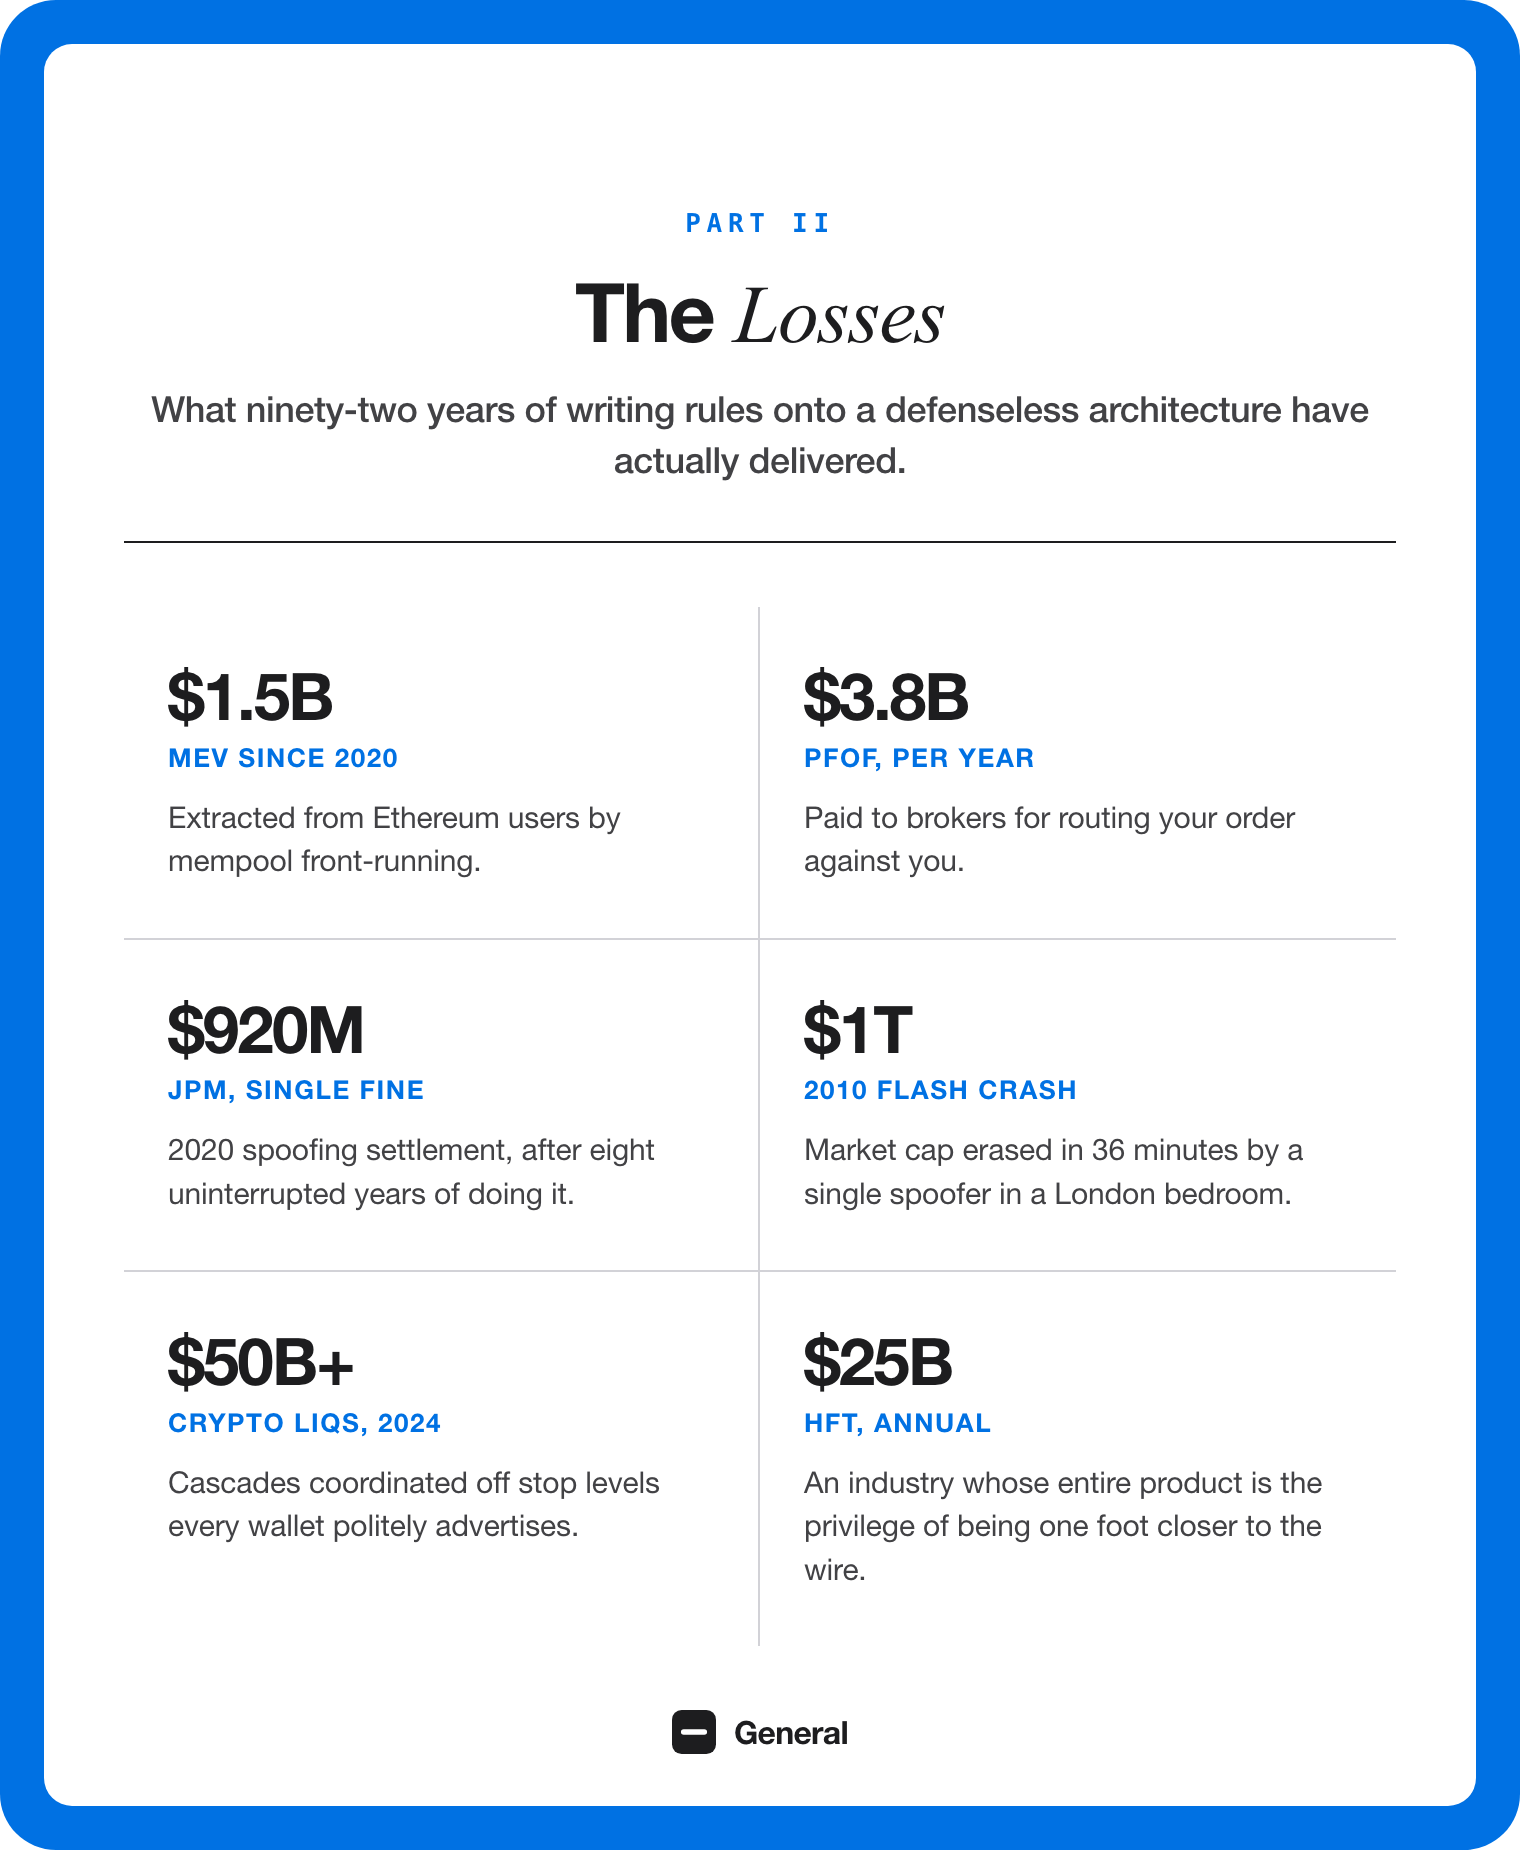
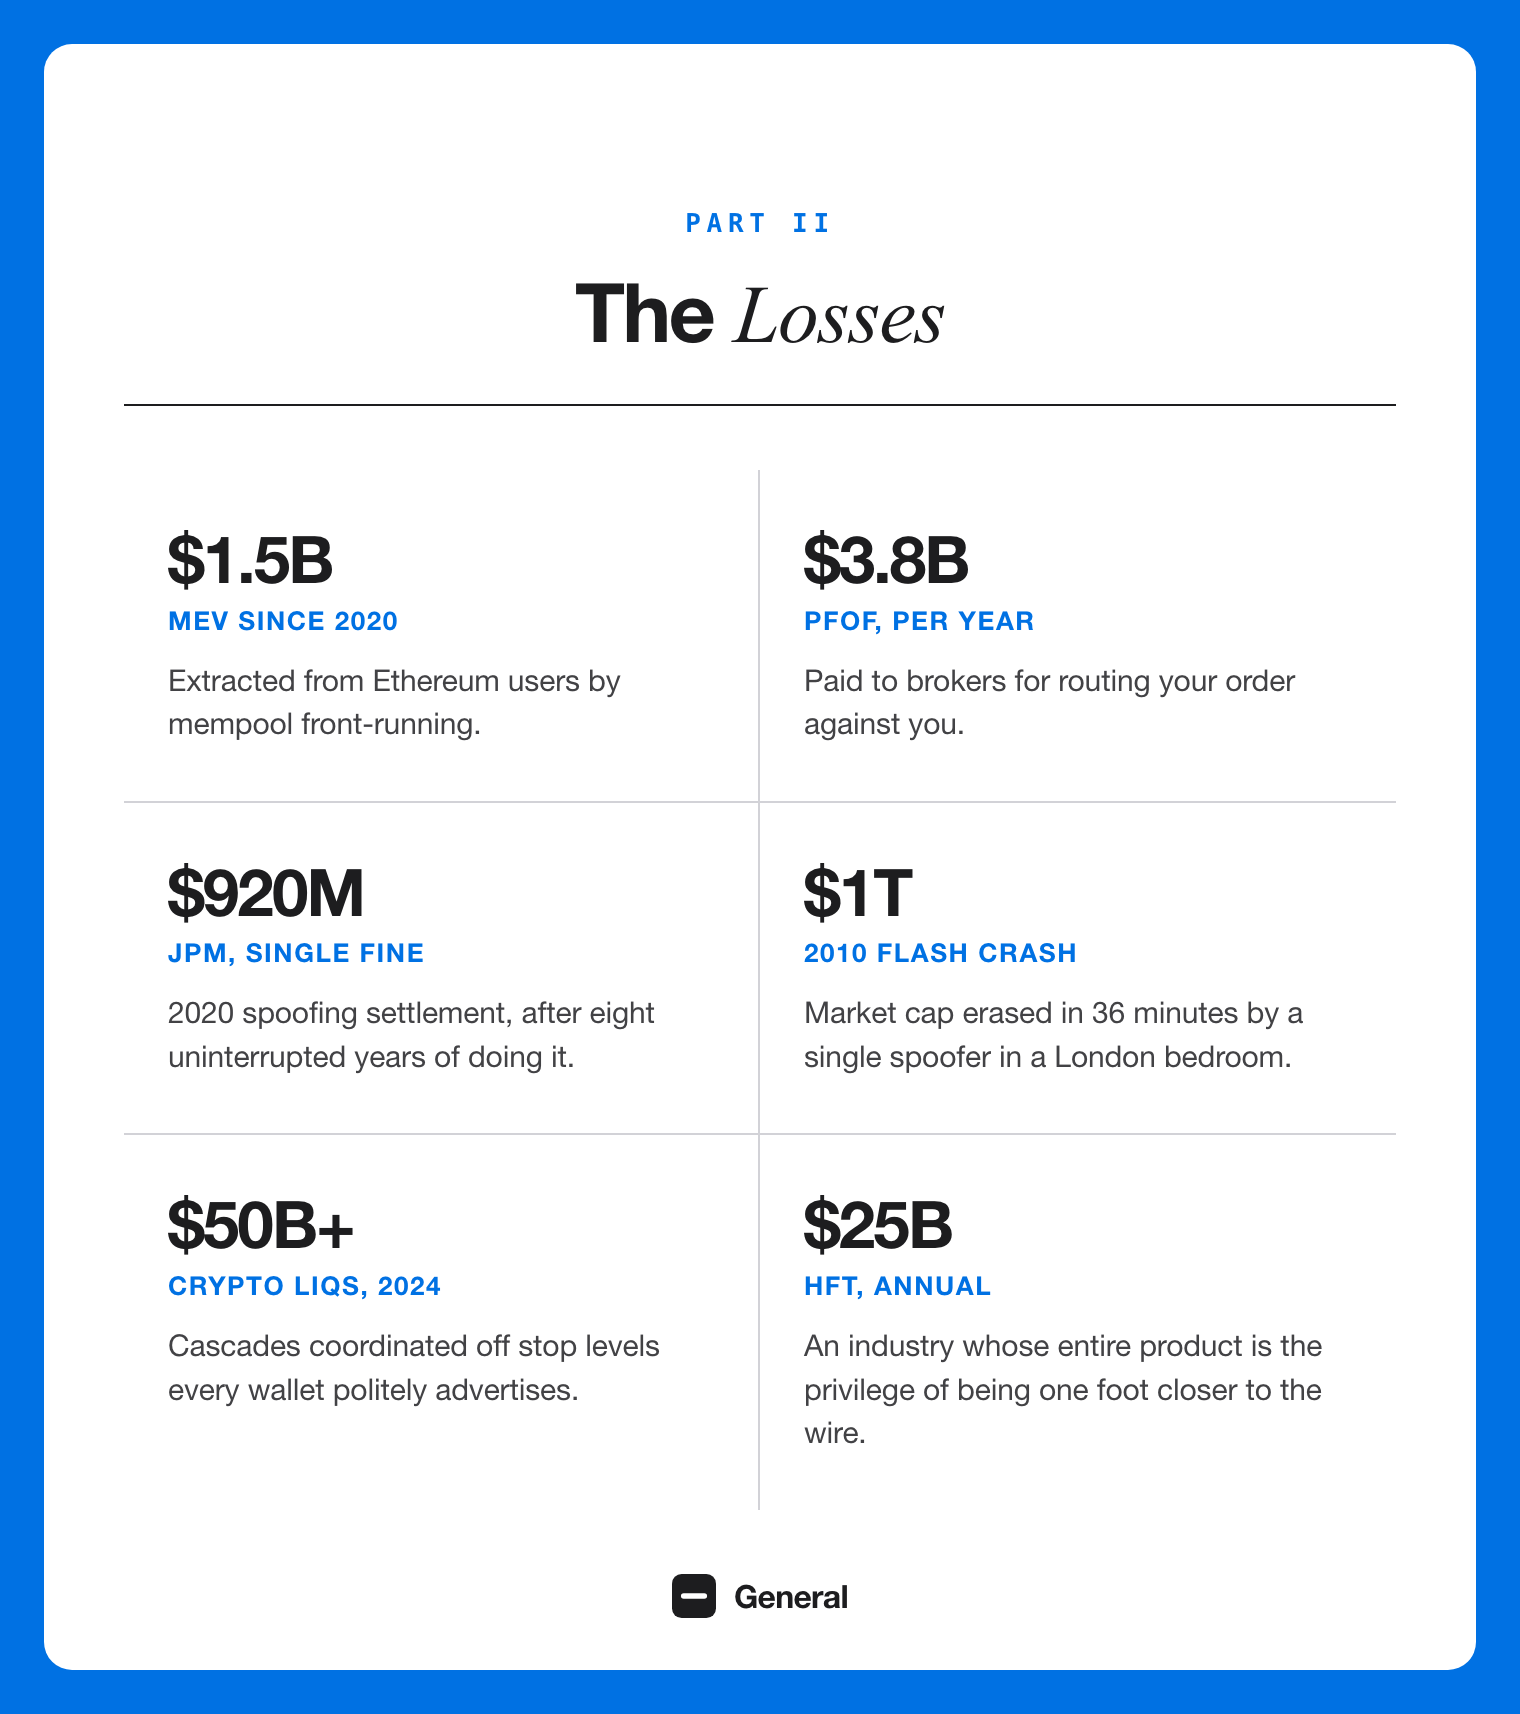
fix(case-study/anticheat): flat blue corners, decks removed, image-led .md
- .share-card border-radius forced to 0 in render override so the
  blue frame fills the bounding box. The white wedges in the four
  corners are gone — every per-card PNG is now a clean blue
  rectangle around the white inner card.
- .article-dek and .prim-title-sub hidden in the rendered cards.
  The descriptive sub-line that used to sit beneath each title
  ('Cheat-resistance against financial stakes...', 'Don't transmit
  what shouldn't be seen', etc.) is removed for visual quiet — the
  card title plus the inner content carry the meaning.
- paste-article.md rewritten as image-led: H2 section headings
  between [IMAGE NN — filename] placeholders, with one short
  Cioran transition sentence after each image when needed.
  No bullet lists, no vocab table, no kill-list table — every
  data block lives in the corresponding card image, not in the
  prose. The .md now reads like a table of contents the user
  fleshes out by dropping the cards in.

diff --git a/frontend/public/case-studies/anticheat/paste-article.md b/frontend/public/case-studies/anticheat/paste-article.md
@@ -1,175 +1,104 @@
-# The Anti-Cheat
+# The first Anti-Cheat for financial markets
 
-Technical Review № 001 — General Market
-
----
-
-Markets are the largest competitive multiplayer game on earth, and the most curious thing about them is that no one ever bothered to install an anti-cheat. Three decades of fixes were patiently catalogued for video games while none were borrowed for trading, on the polite assumption that real money is too dignified to need the same protection as a deathmatch.
-
-The asymmetry has a number, and like everything paid in the long run, the number is patient and enormous.
+**Technical Review № 001 — General Market**
 
 ---
+
+[IMAGE 01 — cover.png]
+
+Markets are the largest competitive multiplayer game on earth, and the most curious thing about them is that no one ever bothered to install an anti-cheat.
+
 
 ## Part I — The Thesis
 
-A multiplayer game without an anti-cheat is not a game, only a habit.
+[IMAGE 02 — part-1-thesis.png]
 
-Markets are the largest competitive multiplayer game on earth, and they have never had an anti-cheat. Three decades of fixes were patiently catalogued for video games while none were borrowed for trading, on the polite assumption that real money is too dignified to need the same protection as a deathmatch.
+The asymmetry has a number, and like everything paid in the long run, the number is patient and enormous.
 
----
 
 ## Part II — The Losses
 
-What ninety-two years of writing rules onto a defenseless architecture have actually delivered:
-
-- **$1.5B** in MEV extracted from Ethereum users since 2020 by mempool front-running.
-- **$3.8B per year** paid to brokers for routing your order against you.
-- **$920M** single fine to JPMorgan in 2020 for spoofing, after eight uninterrupted years of doing it.
-- **$1T** in market cap erased in 36 minutes during the 2010 Flash Crash, by a single spoofer in a London bedroom.
-- **$50B+** in crypto liquidations during 2024 alone, cascaded off stop levels every wallet politely advertises.
-- **$25B per year** in HFT industry revenue whose entire product is the privilege of being one foot closer to the wire.
+[IMAGE 03 — part-2-losses.png]
 
 Trading reached for lobbyists while gaming reached for engineers, and the eight problems they share now wear two different vocabularies as if vocabulary were a defense.
 
----
 
 ## Part III — The Translation
 
-Eight exploits, two vocabularies, one identical mechanism underneath.
-
-| Trading vocabulary | Gaming vocabulary |
-| --- | --- |
-| Frontrunning / MEV | wallhack |
-| Latency arbitrage | ping advantage |
-| Insider trading | aimbot |
-| Stop & liquidation hunting | spawn camping |
-| Spoofing & layering | rage-cancel |
-| Orderflow purchase (PFOF) | pay-to-win |
-| Toxic-flow market making | smurfing |
-| Cross-venue divergence | region-hopping |
+[IMAGE 04 — part-3-translation.png]
 
 The man who runs the world's largest game store has been studying cheaters longer than most regulators have been alive, and the rule he arrived at is shorter than any paragraph in the Securities Exchange Act.
 
----
 
 ## Part IV — The Citation
 
-> **"Our goal is to make them more expensive for cheaters than the economic benefit they can reasonably expect to gain."**
-> — *Gabe Newell, Valve, on VAC, 2014*
-
-Gaben said it about Counter-Strike, where every cheater wakes up the next day looking for somewhere weaker to play; the same principle lets architecture do what no rule book ever did, which is to make the exploit cost more than it pays, until the cheater quietly finds something else to do with his afternoon.
+[IMAGE 05 — part-4-citation.png]
 
 Before describing the seven primitives, one ought to describe the object they protect, which is in itself an indictment of the order book.
 
----
 
 ## Part V — The Block
 
-A General Market block bundles **100 parimutuel prediction markets** into a single sealed envelope: one cent on each, **$1 per block**, every market resolving UP or DOWN against a price the chain settles via BLS-verified oracle consensus.
-
-The block runs three phases of ten minutes each:
-
-1. **SUBMIT (10 min · sealed)** — every bet is committed as a cryptographic hash; nothing legible is on the wire.
-2. **REVEAL (10 min · locked)** — bets unseal simultaneously; nothing can be retracted.
-3. **CLAIM (10 min · parimutuel)** — winners draw from the pool against the losers, no market maker.
-
-Sealed during submit, locked at reveal, parimutuel at claim, BLS-verified oracle consensus settling each price — the architecture every primitive below describes, already on the chain.
+[IMAGE 06 — part-5-block.png]
 
 Seven architectural primitives, each of them quietly putting an entire class of fraud out of work, all of them already inside the block.
 
----
 
-## 01 — Fog of War — Dune II, Westwood, 1992
+## 01 — Fog of War
 
-Don't transmit what shouldn't be seen.
+[IMAGE 07 — primitive-01-fog-of-war.png]
 
-In gaming, the server holds the world and the client receives only the corner it is entitled to. In a General Market block, the same rule applies: inside the submit window the block carries one hundred hashed bets, and the mempool sees commitments where it expected to find prey.
 
----
+## 02 — Server-Authoritative
 
-## 02 — Server-Authoritative — Quake, id Software, 1996
+[IMAGE 08 — primitive-02-server-authoritative.png]
 
-The truth is not on the client.
 
-In gaming, the client proposes and the server decides; the client cannot lie about what occurred. In a General Market block, three oracles sign each price with BLS and consensus settles around them, while the wallet's claim is registered, ignored, and forgotten.
+## 03 — Lockstep Tick
 
----
+[IMAGE 09 — primitive-03-lockstep.png]
 
-## 03 — Lockstep Tick — StarCraft, Blizzard, 1998
 
-Latency does not exist within the window.
+## 04 — Rollback / Lock
 
-In gaming, all inputs are collected and the tick advances only when everyone has committed; the order in which packets arrived is forgotten. In a General Market block, every bet inside the ten-minute submit window resolves at the same instant, and latency, the most expensive product on Wall Street, becomes the only one with a value of zero.
+[IMAGE 10 — primitive-04-rollback.png]
 
----
 
-## 04 — Rollback / Lock — GGPO, Tony Cannon, 2006
+## 05 — Encrypted State
 
-Once committed, never retracted.
+[IMAGE 11 — primitive-05-encrypted-state.png]
 
-In gaming, once an input is committed for a frame it cannot be retracted, not on lag, not on a crash, not on regret. In a General Market block, each parimutuel bet locks at reveal, and the spoofer goes looking for an order book that was never built in the first place.
 
----
+## 06 — Adaptive Difficulty
 
-## 05 — Encrypted State — EAC / BattlEye, 2014
+[IMAGE 12 — primitive-06-adaptive-difficulty.png]
 
-In memory, but illegible.
 
-In gaming, the state lives in RAM but it is encrypted, and the cheat that reads it discovers entropy where it expected an enemy. In a General Market block, one hundred commitments live on the L3 sealed against curiosity, and the front-runner reads the chain to find a hash where there ought to have been a victim.
+## 07 — Verifier Below the Player
 
----
-
-## 06 — Adaptive Difficulty — FACEIT AC, 2016
-
-Catch the shape, scale the math.
-
-In gaming, the honest distribution sits against the cheater outlier and the ban arrives by shape rather than confession. In a General Market block, the bundle starts at one hundred markets, and the day a trader's hit-rate climbs above the curve we scale it to two hundred, then a thousand, then ten thousand, until the math swallows the edge politely. Difficulty is a knob.
-
----
-
-## 07 — Verifier Below the Player — Riot Vanguard, 2020
-
-The runtime sits where you can't reach.
-
-In gaming, the anti-cheat boots before the operating system, and from underneath, every cheat the player loads is already too late. In a General Market block, the L3 chain runs underneath the trader through BLS consensus and a sealed block, and at each level the verifier sits where the cheater's hand cannot arrive.
+[IMAGE 13 — primitive-07-verifier-below.png]
 
 Stack the seven primitives and look honestly at where each venue lands; the picture is unflattering for everyone who has ever charged a fee for the privilege of being cheated.
 
----
 
 ## Part VI — The Map
 
-Cheat-resistance against financial stakes, with the venues honestly placed: Polymarket, Sportsbooks, CEX Perps, and TradFi sit in the lower-left where leaks meet real money. StarCraft and Valorant sit in the lower-right, sealed but with only play money on the table. **General Market** is alone in the upper-right, every primitive applied, real money on the table.
+[IMAGE 14 — part-6-map.png]
 
 Eight exploits, one architecture, all gone.
 
----
 
 ## Part VII — The Kill List
 
-What disappears the moment you stop pretending an order book is mandatory.
-
-| Trading exploit | Gaming alias | Killed by |
-| --- | --- | --- |
-| Frontrunning / MEV | wallhack | sealed bets |
-| Latency arbitrage | ping advantage | lockstep tick |
-| Insider trading | aimbot | adaptive bundle size |
-| Stop hunting | spawn camping | no leverage |
-| Spoofing | rage-cancel | reveal lock |
-| PFOF | pay-to-win | direct submission |
-| Toxic-flow MM | smurfing | parimutuel |
-| Cross-venue divergence | region-hopping | single chain |
+[IMAGE 15 — part-7-kill-list.png]
 
 Counter-Strike has been playable since 1999, and in twenty-seven years no one has ever front-run a Counter-Strike match, while every trade you ever placed was front-run by something you never saw; trading received law, the cheapest of the four modalities, and asked for nothing else, and we did the embarrassing thing, which is to say we read what gaming had already written down.
 
----
 
 ## Part VIII — The Verdict
 
-Quake 1996 · StarCraft 1998 · GGPO 2006 · Vanguard 2020.
+[IMAGE 16 — part-8-verdict.png]
 
-**The anti-cheat existed, and trading just never installed it.**
+**Trading is easy with an Anti-Cheat.**
 
-> **Trading is easy with an Anti-Cheat.**
-
-— **General Market** · Technical Review № 001 · 2026
+— *General Market · Technical Review № 001 · 2026*
